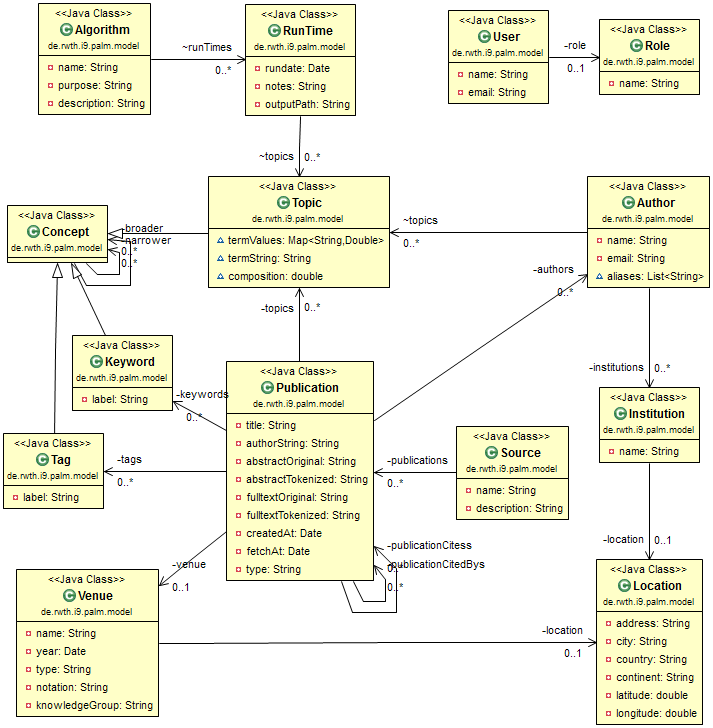
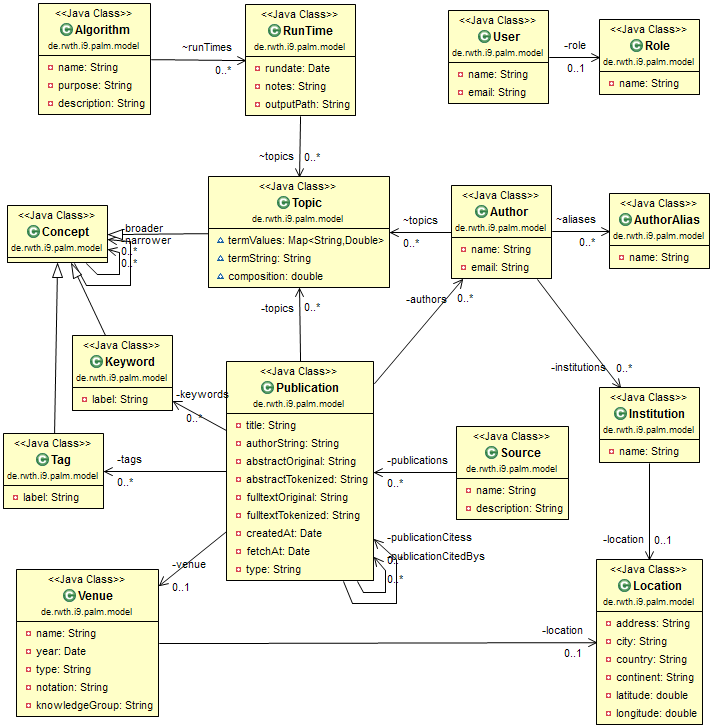
added author alias

diff --git a/src/main/java/de/rwth/i9/palm/model/Author.java b/src/main/java/de/rwth/i9/palm/model/Author.java
@@ -30,7 +30,7 @@ public class Author extends PersistableResource
 	/* other name of the author */
 	@OneToMany( cascade = CascadeType.ALL )
 	@JoinColumn( name = "author_id" )
-	List<String> aliases;
+	List<AuthorAlias> aliases;
 
 	/* few authors work for several institution */
 	@ManyToMany( cascade = CascadeType.ALL, fetch = FetchType.LAZY )
@@ -109,20 +109,20 @@ public class Author extends PersistableResource
 		return this;
 	}
 
-	public List<String> getAliases()
+	public List<AuthorAlias> getAliases()
 	{
 		return aliases;
 	}
 
-	public void setAliases( List<String> aliases )
+	public void setAliases( List<AuthorAlias> aliases )
 	{
 		this.aliases = aliases;
 	}
 
-	public Author addAlias( final String aliasName )
+	public Author addAlias( final AuthorAlias aliasName )
 	{
 		if ( this.aliases == null )
-			this.aliases = new ArrayList<String>();
+			this.aliases = new ArrayList<AuthorAlias>();
 
 		this.aliases.add( aliasName );
 

diff --git a/src/main/java/de/rwth/i9/palm/model/AuthorAlias.java b/src/main/java/de/rwth/i9/palm/model/AuthorAlias.java
@@ -1,0 +1,26 @@
+package de.rwth.i9.palm.model;
+
+import javax.persistence.Column;
+import javax.persistence.Entity;
+import javax.persistence.Table;
+
+import de.rwth.i9.palm.persistence.PersistableResource;
+
+@Entity
+@Table( name = "author_alias" )
+public class AuthorAlias extends PersistableResource
+{
+	/* the full name of the author, most commonly used */
+	@Column
+	private String name;
+
+	public String getName()
+	{
+		return name;
+	}
+
+	public void setName( String name )
+	{
+		this.name = name;
+	}
+}
